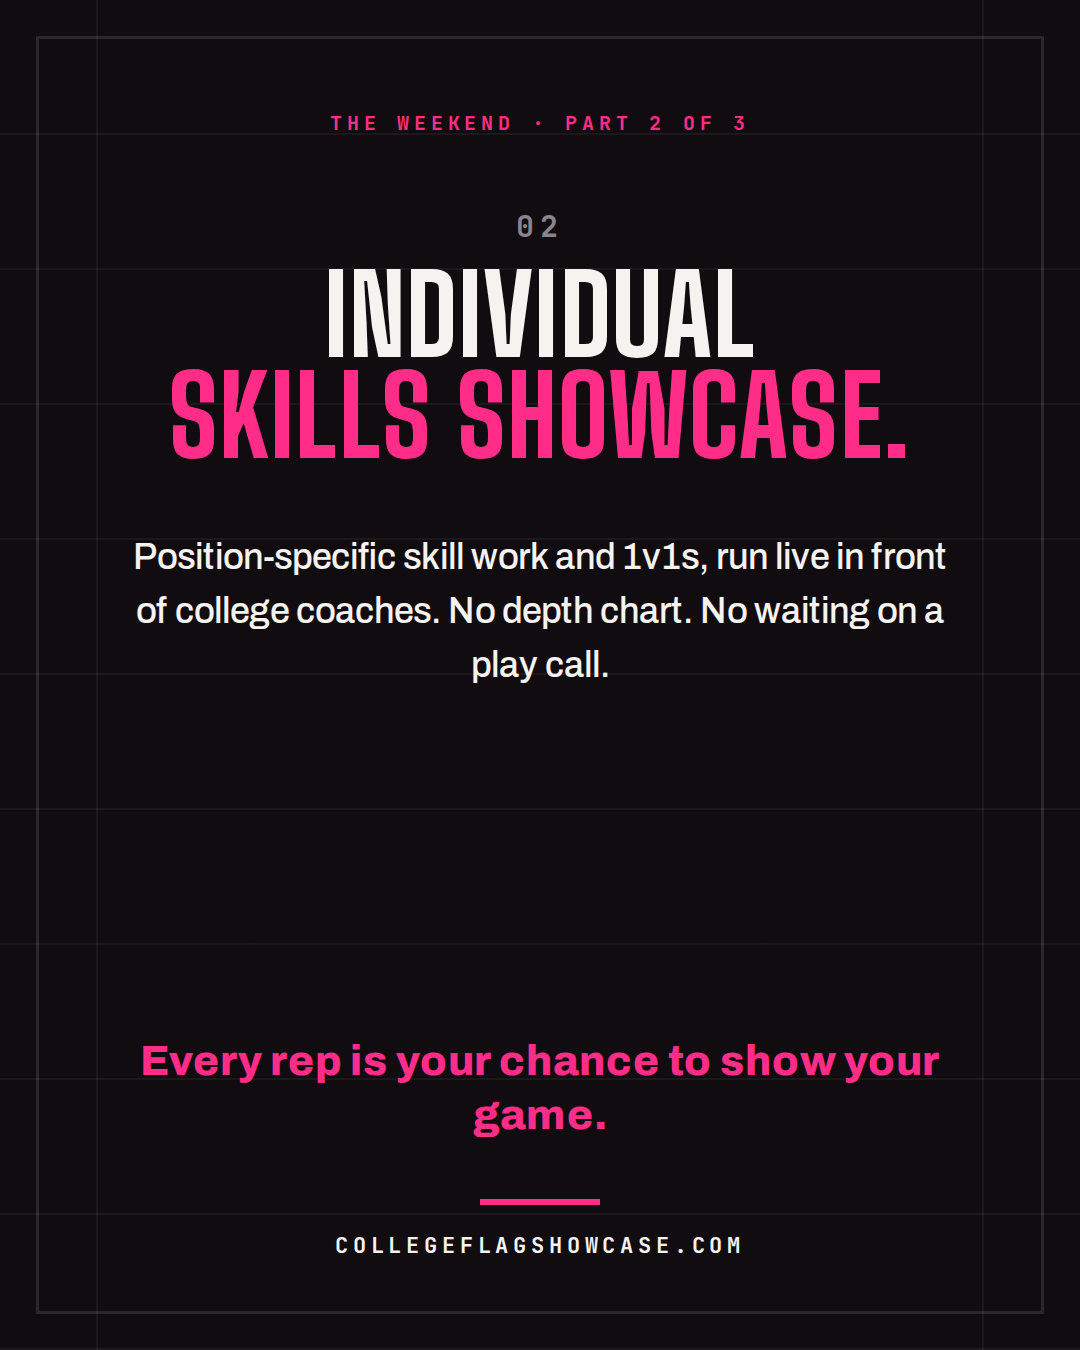
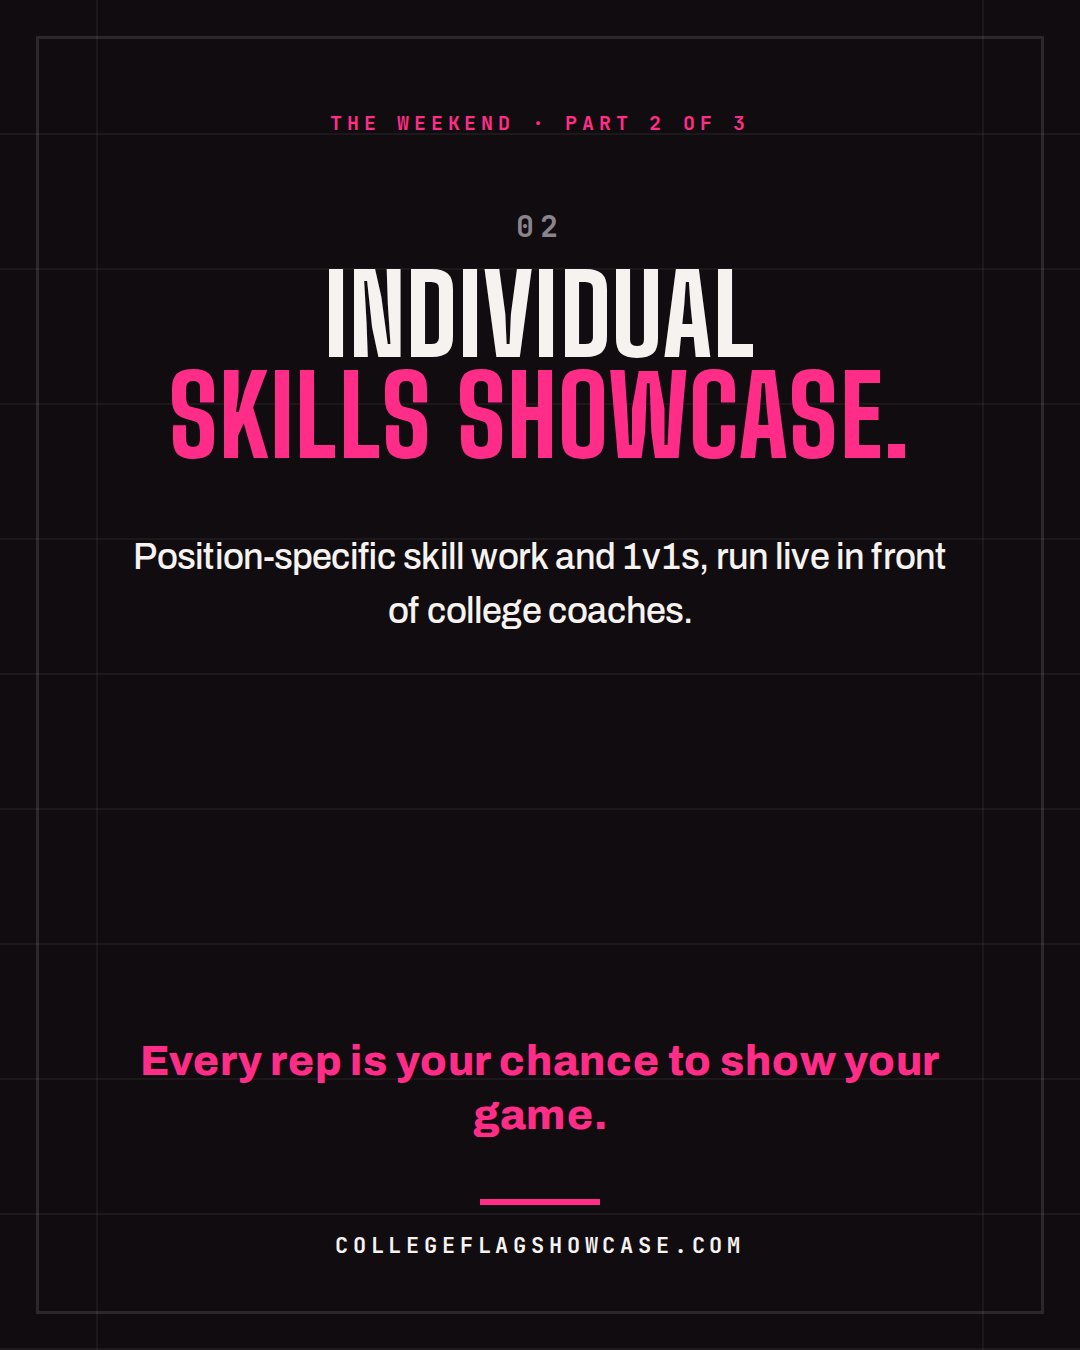
Carousel skills slide: drop depth-chart lines
Claude-Session: https://claude.ai/code/session_019V32boShoBmRrwWenCPJFc

Changed region(s): [[0.1222, 0.4356, 0.8861, 0.5289]]

diff --git a/collateral/ig-carousel-what-is.html b/collateral/ig-carousel-what-is.html
@@ -88,7 +88,7 @@
     <p class="kicker">The Weekend &middot; Part 2 of 3</p>
     <p class="num">02</p>
     <h2 class="slide-title">Individual<br /><span style="color:var(--red)">Skills Showcase.</span></h2>
-    <p class="slide-body">Position-specific skill work and 1v1s, run live in front of college coaches. No depth chart. No waiting on a play call.</p>
+    <p class="slide-body">Position-specific skill work and 1v1s, run live in front of college coaches.</p>
     <p class="slide-punch">Every rep is your chance to show your game.</p>
     <div class="rule"></div>
     <p class="foot"><b>collegeflagshowcase.com</b></p>
